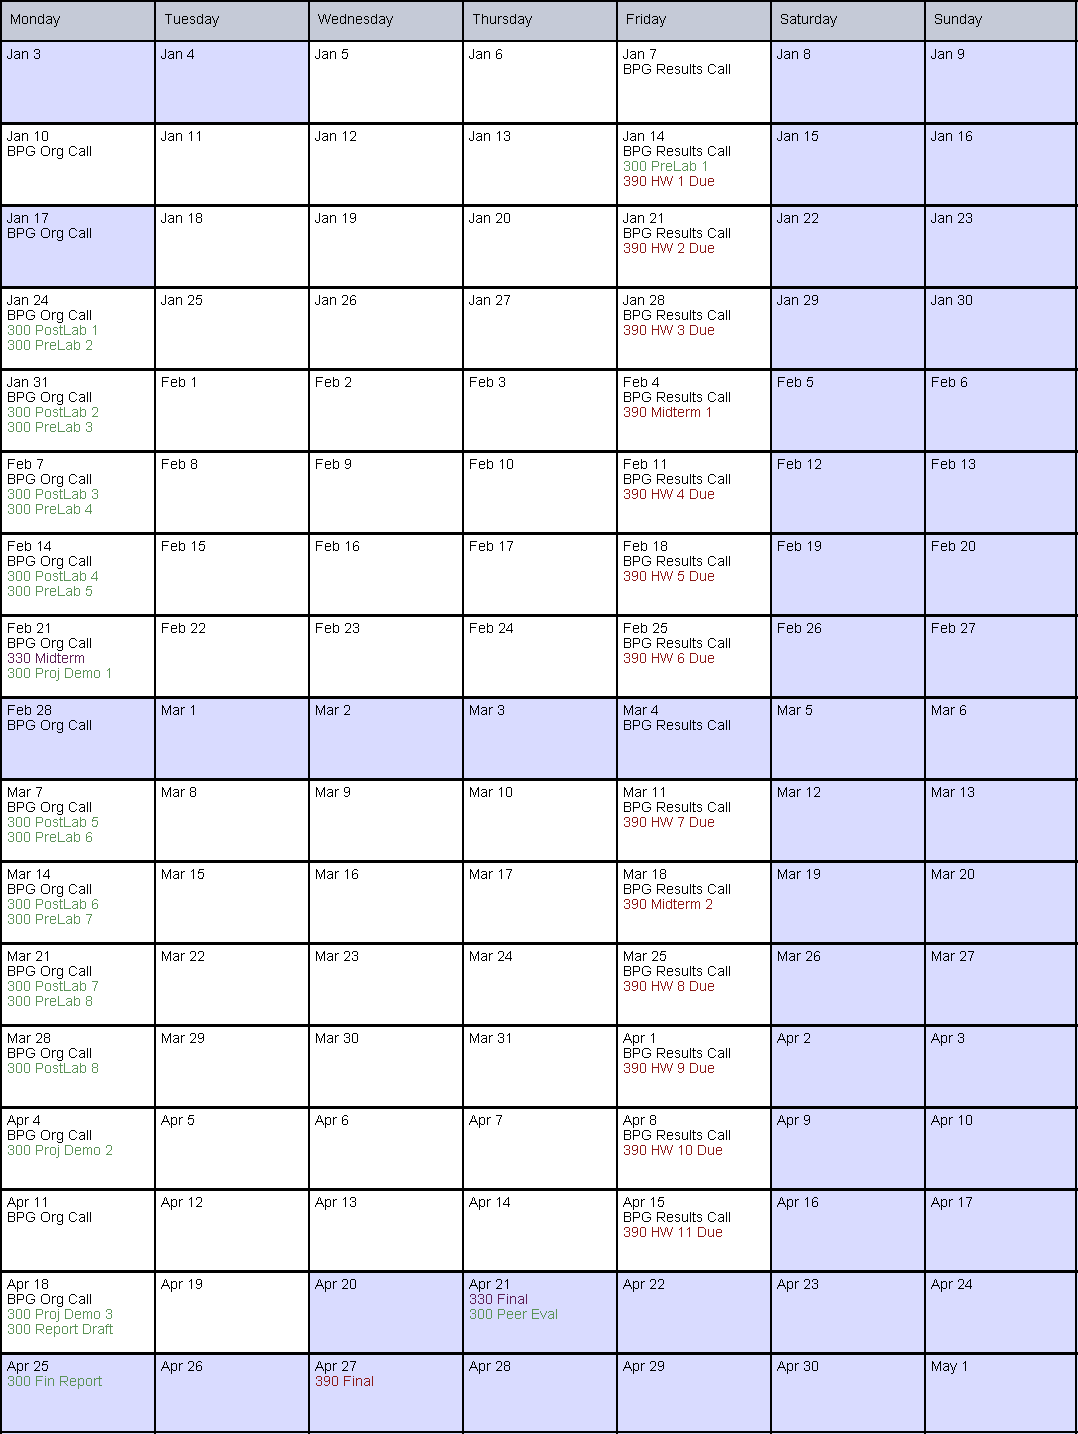
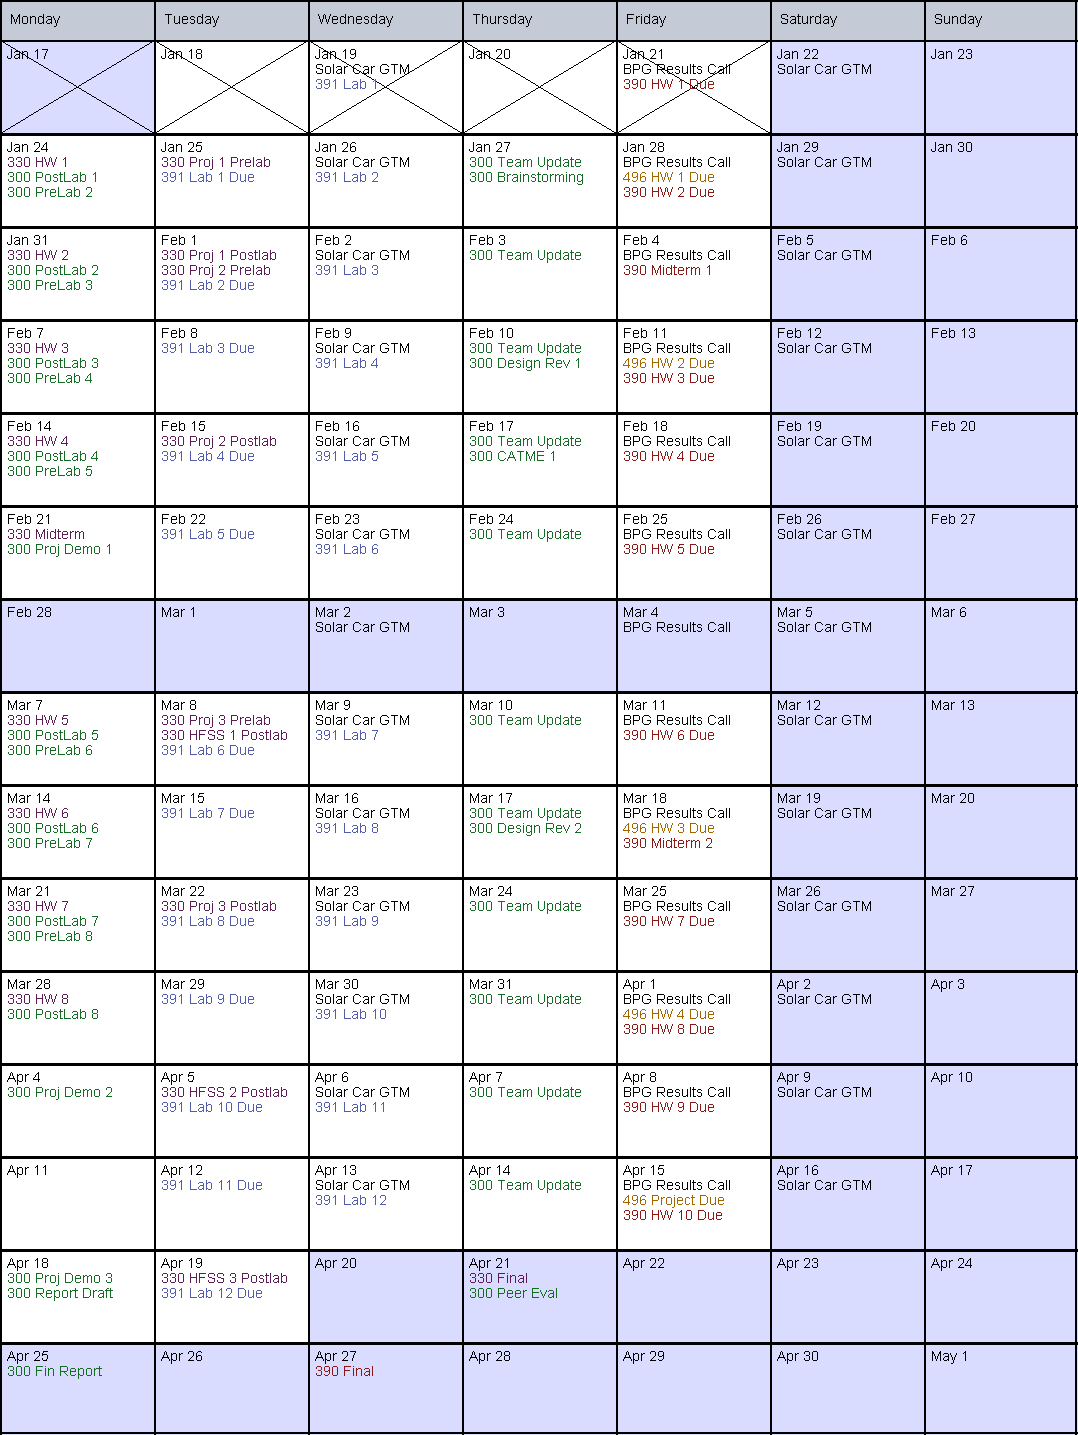
updated

Changed region(s): [[0.0, 0.0307, 1.0, 0.9819], [0.7041, 0.0921, 0.8265, 0.1227], [0.8571, 0.0921, 0.9184, 0.1227]]

diff --git a/src/Calendar.java b/src/Calendar.java
@@ -30,7 +30,7 @@ public class Calendar extends Applet implements Runnable, KeyListener {
     int[] daysPerMonth=new int[]{ 31  , 28  , 31  , 30  , 31  , 30   , 31   , 31  , 30   , 31  , 30  , 31  };
     String[] months=new String[]{"Jan","Feb","Mar","Apr","May","June","July","Aug","Sept","Oct","Nov","Dec"};
     int adj=5;
-    int start=getDayofYear(3,1);
+    int start=getDayofYear(3+14,1);
     int end=getDayofYear(1,5);
     int rows=(int)(Math.ceil((end-start)/7.0));
     int currentDay=start;
@@ -42,7 +42,7 @@ public class Calendar extends Applet implements Runnable, KeyListener {
             new Color(0,0,0),
             new Color(82, 92, 170),
             new Color(138, 24, 22),
-            new Color(91, 146, 86),
+            new Color(21, 106, 36),
             new Color(92, 29, 84),
             new Color(161, 102, 0)
     };
@@ -86,11 +86,43 @@ public class Calendar extends Applet implements Runnable, KeyListener {
     public void addEvents(){
         addWeeklyEvents();
 
+
+        //addEvent("330 HW 2", getDayofYear(31,1), 4);
+        for (int i=1; i<5; i++){ addEvent("330 HW "+i, getDayofYear(24,1)+7*(i-1), 4);}
+        for (int i=1; i<5; i++){ addEvent("330 HW "+(i+4), getDayofYear(7,3)+7*(i-1), 4);}
+
+        addEvent("330 Proj 1 Prelab", getDayofYear(24,1)+1, 4);
+        addEvent("330 Proj 1 Postlab", getDayofYear(24,1)+1+7, 4);
+        addEvent("330 Proj 2 Prelab", getDayofYear(24,1)+1+7, 4);
+        addEvent("330 Proj 2 Postlab", getDayofYear(14,2)+1, 4);
+        addEvent("330 Proj 3 Prelab", getDayofYear(7,3)+1, 4);
+        addEvent("330 HFSS 1 Postlab", getDayofYear(7,3)+1, 4);
+        addEvent("330 Proj 3 Postlab", getDayofYear(21,3)+1, 4);
+        addEvent("330 HFSS 2 Postlab", getDayofYear(4,4)+1, 4);
+        addEvent("330 HFSS 3 Postlab", getDayofYear(18,4)+1, 4);
+
+
         addEvent("330 Midterm", getDayofYear(21,2), 4);
         addEvent("330 Final", getDayofYear(21,4), 4);
 
+        addEvent("496 HW 1 Due", getDayofYear(21,1)+7, 5);
+        addEvent("496 HW 2 Due", getDayofYear(4,2)+7, 5);
+        addEvent("496 HW 3 Due", getDayofYear(11,3)+7, 5);
+        addEvent("496 HW 4 Due", getDayofYear(25,3)+7, 5);
+        addEvent("496 Project Due", getDayofYear(15,4), 5);
+
         addEvent("300 PreLab 1", getDayofYear(14,1), 3);
         addEvent("300 PostLab 1", getDayofYear(24,1), 3);
+
+        for (int i=1; i<13; i++){
+            if(i==6) continue;
+            addEvent("300 Team Update", getDayofYear(27,1)+7*(i-1), 3);}
+        addEvent("300 Brainstorming", getDayofYear(27,1), 3);
+        addEvent("300 Design Rev 1", getDayofYear(10,2), 3);
+        addEvent("300 CATME 1", getDayofYear(17,2), 3);
+        addEvent("300 Design Rev 2", getDayofYear(17,3), 3);
+
+
 
         addEvent("300 PreLab 2", getDayofYear(24,1), 3);
         addEvent("300 PostLab 2", getDayofYear(31,1), 3);
@@ -114,20 +146,28 @@ public class Calendar extends Applet implements Runnable, KeyListener {
         addEvent("300 Fin Report", getDayofYear(25,4), 3);
         //TODO dont think i got all the stuff due on thursday
 
-        addEvent("390 HW 1 Due", getDayofYear(14,1), 2);
-        addEvent("390 HW 2 Due", getDayofYear(21,1), 2);
-        addEvent("390 HW 3 Due", getDayofYear(28,1), 2);
-        addEvent("390 HW 4 Due", getDayofYear(11,2), 2);
-        addEvent("390 HW 5 Due", getDayofYear(18,2), 2);
-        addEvent("390 HW 6 Due", getDayofYear(25,2), 2);
-        addEvent("390 HW 7 Due", getDayofYear(11,3), 2);
-        addEvent("390 HW 8 Due", getDayofYear(25,3), 2);
-        addEvent("390 HW 9 Due", getDayofYear(1,4), 2);
-        addEvent("390 HW 10 Due", getDayofYear(8,4), 2);
-        addEvent("390 HW 11 Due", getDayofYear(15,4), 2);
-        addEvent("390 Final", getDayofYear(27,4), 2);
+        for (int i=1; i<7; i++){ addEvent("391 Lab "+i, getDayofYear(19,1)+7*(i-1), 1);}
+        for (int i=8; i<14; i++){ addEvent("391 Lab "+(i-1), getDayofYear(19,1)+7*(i-1), 1);}
+        for (int i=2; i<7; i++){ addEvent("391 Lab "+(i-1)+" Due", getDayofYear(19,1)+7*(i-1)-1, 1);}
+        for (int i=8; i<15; i++){ addEvent("391 Lab "+(i-2)+" Due", getDayofYear(19,1)+7*(i-1)-1, 1);}
+
+
+        addEvent("390 HW 0 Due", getDayofYear(14,1), 2);
+        addEvent("390 HW 1 Due", getDayofYear(21,1), 2);
+        addEvent("390 HW 2 Due", getDayofYear(28,1), 2);
+        addEvent("390 HW 3 Due", getDayofYear(11,2), 2);
+        addEvent("390 HW 4 Due", getDayofYear(18,2), 2);
+        addEvent("390 HW 5 Due", getDayofYear(25,2), 2);
+        addEvent("390 HW 6 Due", getDayofYear(11,3), 2);
+        addEvent("390 HW 7 Due", getDayofYear(25,3), 2);
+        addEvent("390 HW 8 Due", getDayofYear(1,4), 2);
+        addEvent("390 HW 9 Due", getDayofYear(8,4), 2);
+        addEvent("390 HW 10 Due", getDayofYear(15,4), 2);
         addEvent("390 Midterm 1", getDayofYear(4,2), 2);
         addEvent("390 Midterm 2", getDayofYear(18,3), 2);
+        addEvent("390 Final", getDayofYear(27,4), 2);
+
+
     }
 
 
@@ -231,10 +271,12 @@ public class Calendar extends Applet implements Runnable, KeyListener {
                         //addEvent("301 HW Due", i, 5);
                     }
                 }*/
-                if (day == 0) {
-                    addEvent("BPG Org Call", i, 0);
-                }else if (day == 4) {
+                if (day == 4) {
                     addEvent("BPG Results Call", i, 0);
+                }else if (day == 5) {
+                    addEvent("Solar Car GTM", i, 0);
+                }else if (day == 2) {
+                    addEvent("Solar Car GTM", i, 0);
                 }
             }
         }
